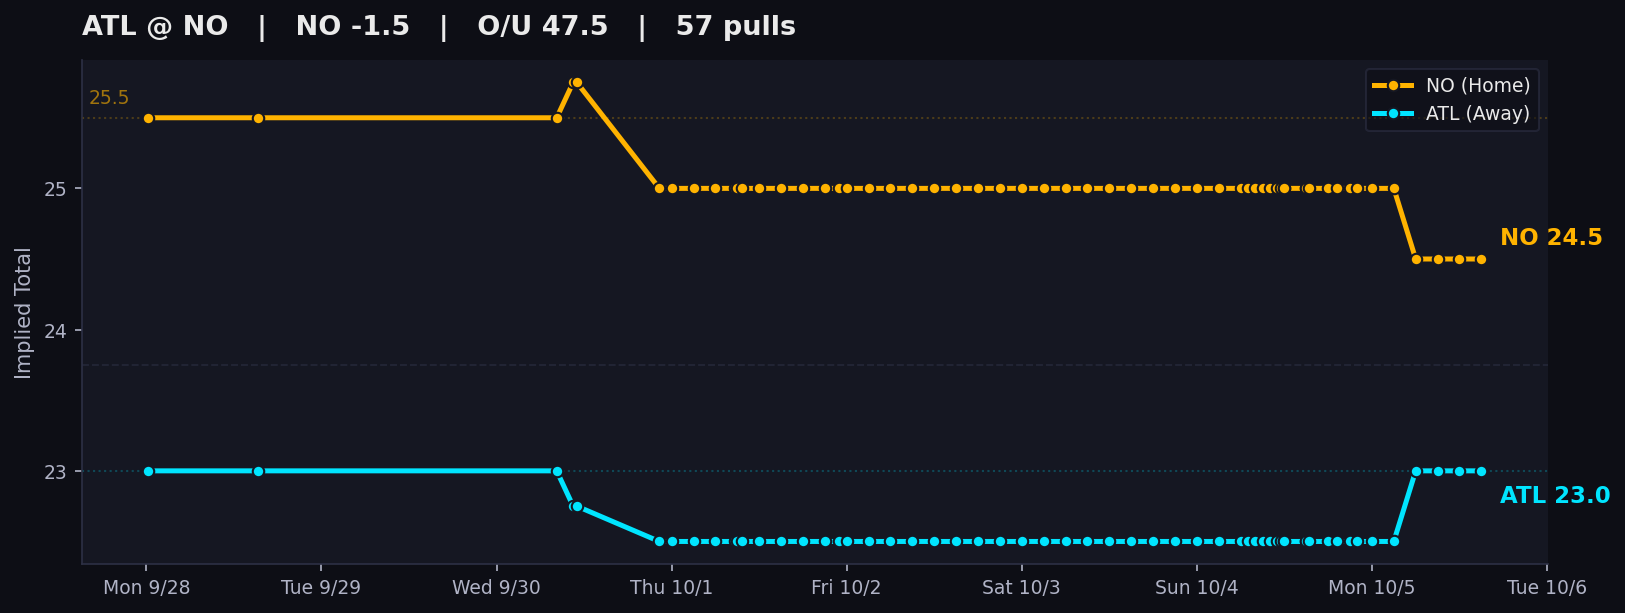
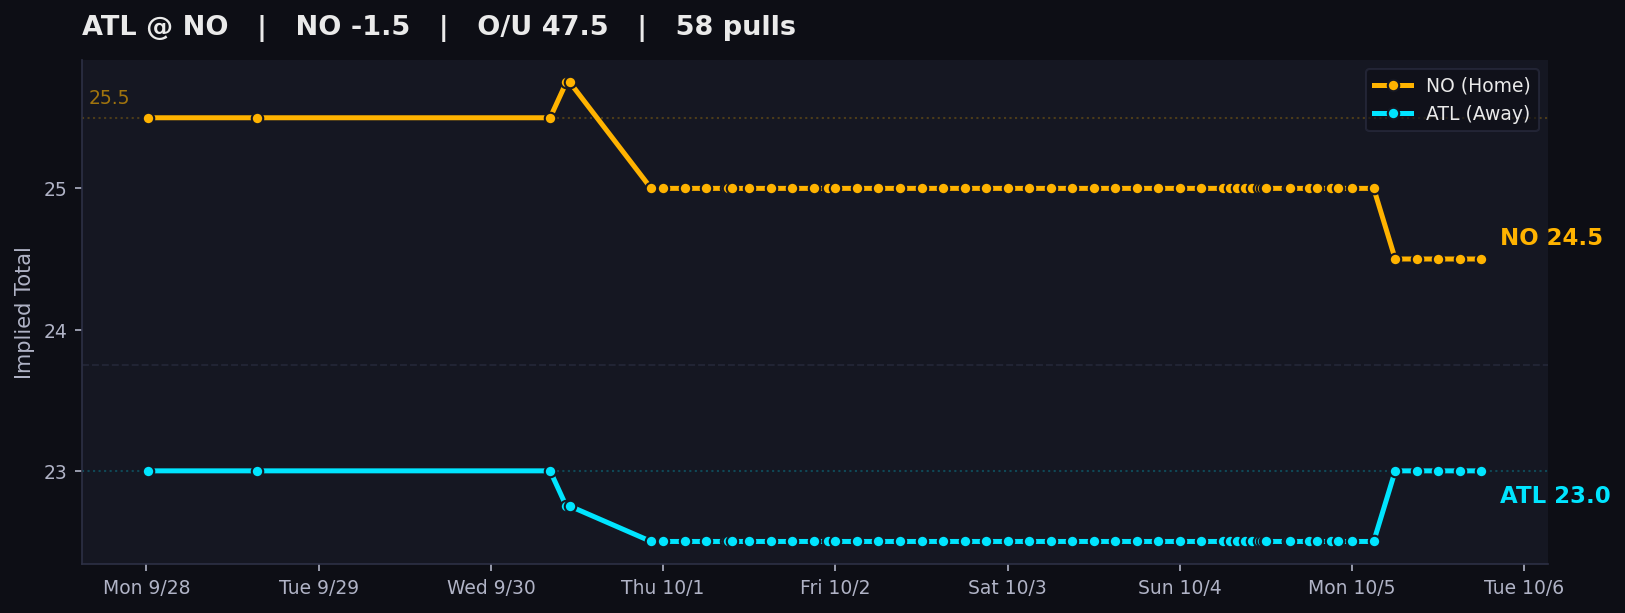
auto: local tracker sync

diff --git a/charts/index.html b/charts/index.html
@@ -311,7 +311,7 @@
     </div>
     <p class='sub'>
       DraftKings main lines &middot; Pinnacle cross-check &middot; Updated by the local Mac tracker<br>
-      Page rendered Mon Oct 05, 2026 3:00 PM CDT &middot; 762 valid chart dots &middot; 913 total pull attempts
+      Page rendered Mon Oct 05, 2026 6:00 PM CDT &middot; 763 valid chart dots &middot; 914 total pull attempts
       <span class='legend-box'>
         <span class='dot-teal'>● Away implied total</span>
         <span class='dot-amber'>● Home implied total</span>
@@ -324,9 +324,9 @@
     </details>
   </header>
 
-  <div id='feed-banner' class='alert-banner healthy' data-banner-kind='healthy' data-feed-ts='2026-10-05T20:00:00.928355+00:00' data-feed-ts-label='Mon Oct 05, 3:00 PM CDT'>
+  <div id='feed-banner' class='alert-banner healthy' data-banner-kind='healthy' data-feed-ts='2026-10-05T23:00:01.152695+00:00' data-feed-ts-label='Mon Oct 05, 6:00 PM CDT'>
             <span class='status-dot'></span>
-            <b>Feed Healthy:</b> All 1 open markets updated. 15 games have started and is showing its final verified pregame line. Board age based on oldest open market: <span id='feed-time'>Mon Oct 05, 3:00 PM CDT</span> (<span id='feed-age-dynamic'>just now</span>).
+            <b>Feed Healthy:</b> All 1 open markets updated. 15 games have started and is showing its final verified pregame line. Board age based on oldest open market: <span id='feed-time'>Mon Oct 05, 6:00 PM CDT</span> (<span id='feed-age-dynamic'>just now</span>).
         </div>
 
   <nav class='filter-bar' aria-label='Filter games by slate'>
@@ -396,7 +396,7 @@
                 <div><span>Last valid pull</span><strong>Thu 6:00 PM CT</strong></div>
                 <div><span>Chart dots</span><strong>20</strong></div>
             </div>
-                    <img class='expanded-chart' src='PIT_CLE.png?v=1791230421' alt='PIT at CLE line movement chart'>
+                    <img class='expanded-chart' src='PIT_CLE.png?v=1791241221' alt='PIT at CLE line movement chart'>
                     <p class='movement-note'>Total 38.5 → 37.5</p>
                 </div>
             </td>
@@ -437,7 +437,7 @@
                 <div><span>Last valid pull</span><strong>Sun 8:00 AM CT</strong></div>
                 <div><span>Chart dots</span><strong>46</strong></div>
             </div>
-                    <img class='expanded-chart' src='IND_WAS.png?v=1791230421' alt='IND at WAS line movement chart'>
+                    <img class='expanded-chart' src='IND_WAS.png?v=1791241221' alt='IND at WAS line movement chart'>
                     <p class='movement-note'>Spread IND -3.5 → -4.5</p>
                 </div>
             </td>
@@ -478,7 +478,7 @@
                 <div><span>Last valid pull</span><strong>Sun 12:00 PM CT</strong></div>
                 <div><span>Chart dots</span><strong>50</strong></div>
             </div>
-                    <img class='expanded-chart' src='ARI_NYG.png?v=1791230421' alt='ARI at NYG line movement chart'>
+                    <img class='expanded-chart' src='ARI_NYG.png?v=1791241221' alt='ARI at NYG line movement chart'>
                     <p class='movement-note'>Spread ARI +1.5 → -2.5; Total 43.5 → 44.5</p>
                 </div>
             </td>
@@ -513,7 +513,7 @@
                 <div><span>Last valid pull</span><strong>Sun 12:00 PM CT</strong></div>
                 <div><span>Chart dots</span><strong>48</strong></div>
             </div>
-                    <img class='expanded-chart' src='LAR_PHI.png?v=1791230421' alt='LAR at PHI line movement chart'>
+                    <img class='expanded-chart' src='LAR_PHI.png?v=1791241221' alt='LAR at PHI line movement chart'>
                     <p class='movement-note'>Spread LAR -2.5 → -3.5; Total 46.5 → 42.5</p>
                 </div>
             </td>
@@ -548,7 +548,7 @@
                 <div><span>Last valid pull</span><strong>Sun 12:00 PM CT</strong></div>
                 <div><span>Chart dots</span><strong>50</strong></div>
             </div>
-                    <img class='expanded-chart' src='GB_TB.png?v=1791230421' alt='GB at TB line movement chart'>
+                    <img class='expanded-chart' src='GB_TB.png?v=1791241221' alt='GB at TB line movement chart'>
                     <p class='movement-note'>Total 42.5 → 38.5</p>
                 </div>
             </td>
@@ -583,7 +583,7 @@
                 <div><span>Last valid pull</span><strong>Sun 12:00 PM CT</strong></div>
                 <div><span>Chart dots</span><strong>48</strong></div>
             </div>
-                    <img class='expanded-chart' src='TEN_BAL.png?v=1791230421' alt='TEN at BAL line movement chart'>
+                    <img class='expanded-chart' src='TEN_BAL.png?v=1791241221' alt='TEN at BAL line movement chart'>
                     <p class='movement-note'>Total 43.5 → 42.5</p>
                 </div>
             </td>
@@ -618,7 +618,7 @@
                 <div><span>Last valid pull</span><strong>Sun 12:00 PM CT</strong></div>
                 <div><span>Chart dots</span><strong>51</strong></div>
             </div>
-                    <img class='expanded-chart' src='NE_BUF.png?v=1791230421' alt='NE at BUF line movement chart'>
+                    <img class='expanded-chart' src='NE_BUF.png?v=1791241221' alt='NE at BUF line movement chart'>
                     <p class='movement-note'>Total 48.5 → 49.5</p>
                 </div>
             </td>
@@ -653,7 +653,7 @@
                 <div><span>Last valid pull</span><strong>Sun 12:00 PM CT</strong></div>
                 <div><span>Chart dots</span><strong>50</strong></div>
             </div>
-                    <img class='expanded-chart' src='JAX_CIN.png?v=1791230421' alt='JAX at CIN line movement chart'>
+                    <img class='expanded-chart' src='JAX_CIN.png?v=1791241221' alt='JAX at CIN line movement chart'>
                     <p class='movement-note'>Total 50.5 → 51.5</p>
                 </div>
             </td>
@@ -688,7 +688,7 @@
                 <div><span>Last valid pull</span><strong>Sun 12:00 PM CT</strong></div>
                 <div><span>Chart dots</span><strong>50</strong></div>
             </div>
-                    <img class='expanded-chart' src='DAL_HOU.png?v=1791230421' alt='DAL at HOU line movement chart'>
+                    <img class='expanded-chart' src='DAL_HOU.png?v=1791241221' alt='DAL at HOU line movement chart'>
                     <p class='movement-note'>Spread HOU -2.5 → -3.0; Total 47.5 → 48.5</p>
                 </div>
             </td>
@@ -723,7 +723,7 @@
                 <div><span>Last valid pull</span><strong>Sun 12:00 PM CT</strong></div>
                 <div><span>Chart dots</span><strong>50</strong></div>
             </div>
-                    <img class='expanded-chart' src='NYJ_CHI.png?v=1791230421' alt='NYJ at CHI line movement chart'>
+                    <img class='expanded-chart' src='NYJ_CHI.png?v=1791241221' alt='NYJ at CHI line movement chart'>
                     <p class='movement-note'>Spread CHI -3.0 → -3.5; Total 42.5 → 43.5</p>
                 </div>
             </td>
@@ -764,7 +764,7 @@
                 <div><span>Last valid pull</span><strong>Sun 3:00 PM CT</strong></div>
                 <div><span>Chart dots</span><strong>49</strong></div>
             </div>
-                    <img class='expanded-chart' src='MIA_MIN.png?v=1791230421' alt='MIA at MIN line movement chart'>
+                    <img class='expanded-chart' src='MIA_MIN.png?v=1791241221' alt='MIA at MIN line movement chart'>
                     <p class='movement-note'>Total 39.5 → 38.5</p>
                 </div>
             </td>
@@ -799,7 +799,7 @@
                 <div><span>Last valid pull</span><strong>Sun 3:20 PM CT</strong></div>
                 <div><span>Chart dots</span><strong>50</strong></div>
             </div>
-                    <img class='expanded-chart' src='DEN_SF.png?v=1791230421' alt='DEN at SF line movement chart'>
+                    <img class='expanded-chart' src='DEN_SF.png?v=1791241221' alt='DEN at SF line movement chart'>
                     <p class='movement-note'>Total 46.5 → 47.5</p>
                 </div>
             </td>
@@ -834,7 +834,7 @@
                 <div><span>Last valid pull</span><strong>Sun 3:20 PM CT</strong></div>
                 <div><span>Chart dots</span><strong>47</strong></div>
             </div>
-                    <img class='expanded-chart' src='KC_LVR.png?v=1791230421' alt='KC at LVR line movement chart'>
+                    <img class='expanded-chart' src='KC_LVR.png?v=1791241221' alt='KC at LVR line movement chart'>
                     <p class='movement-note'>Spread KC -5.5 → -4.5</p>
                 </div>
             </td>
@@ -869,7 +869,7 @@
                 <div><span>Last valid pull</span><strong>Sun 3:20 PM CT</strong></div>
                 <div><span>Chart dots</span><strong>47</strong></div>
             </div>
-                    <img class='expanded-chart' src='LAC_SEA.png?v=1791230421' alt='LAC at SEA line movement chart'>
+                    <img class='expanded-chart' src='LAC_SEA.png?v=1791241221' alt='LAC at SEA line movement chart'>
                     <p class='movement-note'>Spread SEA -6.5 → -7.0; Total 43.5 → 42.5</p>
                 </div>
             </td>
@@ -910,7 +910,7 @@
                 <div><span>Last valid pull</span><strong>Sun 7:10 PM CT</strong></div>
                 <div><span>Chart dots</span><strong>49</strong></div>
             </div>
-                    <img class='expanded-chart' src='DET_CAR.png?v=1791230421' alt='DET at CAR line movement chart'>
+                    <img class='expanded-chart' src='DET_CAR.png?v=1791241221' alt='DET at CAR line movement chart'>
                     <p class='movement-note'>Spread DET -3.5 → -4.5; Total 50.5 → 51.5</p>
                 </div>
             </td>
@@ -931,8 +931,8 @@
             <td class='it-away'>ATL 23.0</td>
             <td class='it-home'>NO 24.5</td>
             <td class='reason' title='Spread NO -2.5 → -1.5; Total 48.5 → 47.5'>Spread NO -2.5 → -1.5; Total 48.5 → 47.5</td>
-            <td style='text-align:center;'><span class='pill-fresh'>3:00 PM CT</span></td>
-            <td class='snaps'>57</td>
+            <td style='text-align:center;'><span class='pill-fresh'>6:00 PM CT</span></td>
+            <td class='snaps'>58</td>
         </tr>
         <tr id='desktop-panel-ATL_NO' class='chart-detail-row' data-slate='MNF' data-game-panel='ATL_NO' hidden>
             <td colspan='12'>
@@ -948,10 +948,10 @@
                 <div><span>Current total</span><strong>47.5</strong></div>
                 <div><span>Away implied</span><strong class='it-away'>ATL 23.0</strong></div>
                 <div><span>Home implied</span><strong class='it-home'>NO 24.5</strong></div>
-                <div><span>Last valid pull</span><strong>3:00 PM CT</strong></div>
-                <div><span>Chart dots</span><strong>57</strong></div>
+                <div><span>Last valid pull</span><strong>6:00 PM CT</strong></div>
+                <div><span>Chart dots</span><strong>58</strong></div>
             </div>
-                    <img class='expanded-chart' src='ATL_NO.png?v=1791230421' alt='ATL at NO line movement chart'>
+                    <img class='expanded-chart' src='ATL_NO.png?v=1791241221' alt='ATL at NO line movement chart'>
                     <p class='movement-note'>Spread NO -2.5 → -1.5; Total 48.5 → 47.5</p>
                 </div>
             </td>
@@ -986,7 +986,7 @@
                 <div><span>Last valid pull</span><strong>Thu 6:00 PM CT</strong></div>
                 <div><span>Chart dots</span><strong>20</strong></div>
             </div>
-                <img class='expanded-chart' src='PIT_CLE.png?v=1791230421' alt='PIT at CLE line movement chart'>
+                <img class='expanded-chart' src='PIT_CLE.png?v=1791241221' alt='PIT at CLE line movement chart'>
                 <p class='pull-note'><span class='pull-dot'></span> Every dot is a valid completed pull · 20 chart dots</p>
             </div>
         </article><article class='mobile-game-card closed-game' data-slate='OTHER_PRIMETIME' data-game='IND_WAS'>
@@ -1013,7 +1013,7 @@
                 <div><span>Last valid pull</span><strong>Sun 8:00 AM CT</strong></div>
                 <div><span>Chart dots</span><strong>46</strong></div>
             </div>
-                <img class='expanded-chart' src='IND_WAS.png?v=1791230421' alt='IND at WAS line movement chart'>
+                <img class='expanded-chart' src='IND_WAS.png?v=1791241221' alt='IND at WAS line movement chart'>
                 <p class='pull-note'><span class='pull-dot'></span> Every dot is a valid completed pull · 46 chart dots</p>
             </div>
         </article><article class='mobile-game-card closed-game' data-slate='SUN_EARLY' data-game='ARI_NYG'>
@@ -1040,7 +1040,7 @@
                 <div><span>Last valid pull</span><strong>Sun 12:00 PM CT</strong></div>
                 <div><span>Chart dots</span><strong>50</strong></div>
             </div>
-                <img class='expanded-chart' src='ARI_NYG.png?v=1791230421' alt='ARI at NYG line movement chart'>
+                <img class='expanded-chart' src='ARI_NYG.png?v=1791241221' alt='ARI at NYG line movement chart'>
                 <p class='pull-note'><span class='pull-dot'></span> Every dot is a valid completed pull · 50 chart dots</p>
             </div>
         </article><article class='mobile-game-card closed-game' data-slate='SUN_EARLY' data-game='LAR_PHI'>
@@ -1067,7 +1067,7 @@
                 <div><span>Last valid pull</span><strong>Sun 12:00 PM CT</strong></div>
                 <div><span>Chart dots</span><strong>48</strong></div>
             </div>
-                <img class='expanded-chart' src='LAR_PHI.png?v=1791230421' alt='LAR at PHI line movement chart'>
+                <img class='expanded-chart' src='LAR_PHI.png?v=1791241221' alt='LAR at PHI line movement chart'>
                 <p class='pull-note'><span class='pull-dot'></span> Every dot is a valid completed pull · 48 chart dots</p>
             </div>
         </article><article class='mobile-game-card closed-game' data-slate='SUN_EARLY' data-game='GB_TB'>
@@ -1094,7 +1094,7 @@
                 <div><span>Last valid pull</span><strong>Sun 12:00 PM CT</strong></div>
                 <div><span>Chart dots</span><strong>50</strong></div>
             </div>
-                <img class='expanded-chart' src='GB_TB.png?v=1791230421' alt='GB at TB line movement chart'>
+                <img class='expanded-chart' src='GB_TB.png?v=1791241221' alt='GB at TB line movement chart'>
                 <p class='pull-note'><span class='pull-dot'></span> Every dot is a valid completed pull · 50 chart dots</p>
             </div>
         </article><article class='mobile-game-card closed-game' data-slate='SUN_EARLY' data-game='TEN_BAL'>
@@ -1121,7 +1121,7 @@
                 <div><span>Last valid pull</span><strong>Sun 12:00 PM CT</strong></div>
                 <div><span>Chart dots</span><strong>48</strong></div>
             </div>
-                <img class='expanded-chart' src='TEN_BAL.png?v=1791230421' alt='TEN at BAL line movement chart'>
+                <img class='expanded-chart' src='TEN_BAL.png?v=1791241221' alt='TEN at BAL line movement chart'>
                 <p class='pull-note'><span class='pull-dot'></span> Every dot is a valid completed pull · 48 chart dots</p>
             </div>
         </article><article class='mobile-game-card closed-game' data-slate='SUN_EARLY' data-game='NE_BUF'>
@@ -1148,7 +1148,7 @@
                 <div><span>Last valid pull</span><strong>Sun 12:00 PM CT</strong></div>
                 <div><span>Chart dots</span><strong>51</strong></div>
             </div>
-                <img class='expanded-chart' src='NE_BUF.png?v=1791230421' alt='NE at BUF line movement chart'>
+                <img class='expanded-chart' src='NE_BUF.png?v=1791241221' alt='NE at BUF line movement chart'>
                 <p class='pull-note'><span class='pull-dot'></span> Every dot is a valid completed pull · 51 chart dots</p>
             </div>
         </article><article class='mobile-game-card closed-game' data-slate='SUN_EARLY' data-game='JAX_CIN'>
@@ -1175,7 +1175,7 @@
                 <div><span>Last valid pull</span><strong>Sun 12:00 PM CT</strong></div>
                 <div><span>Chart dots</span><strong>50</strong></div>
             </div>
-                <img class='expanded-chart' src='JAX_CIN.png?v=1791230421' alt='JAX at CIN line movement chart'>
+                <img class='expanded-chart' src='JAX_CIN.png?v=1791241221' alt='JAX at CIN line movement chart'>
                 <p class='pull-note'><span class='pull-dot'></span> Every dot is a valid completed pull · 50 chart dots</p>
             </div>
         </article><article class='mobile-game-card closed-game' data-slate='SUN_EARLY' data-game='DAL_HOU'>
@@ -1202,7 +1202,7 @@
                 <div><span>Last valid pull</span><strong>Sun 12:00 PM CT</strong></div>
                 <div><span>Chart dots</span><strong>50</strong></div>
             </div>
-                <img class='expanded-chart' src='DAL_HOU.png?v=1791230421' alt='DAL at HOU line movement chart'>
+                <img class='expanded-chart' src='DAL_HOU.png?v=1791241221' alt='DAL at HOU line movement chart'>
                 <p class='pull-note'><span class='pull-dot'></span> Every dot is a valid completed pull · 50 chart dots</p>
             </div>
         </article><article class='mobile-game-card closed-game' data-slate='SUN_EARLY' data-game='NYJ_CHI'>
@@ -1229,7 +1229,7 @@
                 <div><span>Last valid pull</span><strong>Sun 12:00 PM CT</strong></div>
                 <div><span>Chart dots</span><strong>50</strong></div>
             </div>
-                <img class='expanded-chart' src='NYJ_CHI.png?v=1791230421' alt='NYJ at CHI line movement chart'>
+                <img class='expanded-chart' src='NYJ_CHI.png?v=1791241221' alt='NYJ at CHI line movement chart'>
                 <p class='pull-note'><span class='pull-dot'></span> Every dot is a valid completed pull · 50 chart dots</p>
             </div>
         </article><article class='mobile-game-card closed-game' data-slate='SUN_LATE' data-game='MIA_MIN'>
@@ -1256,7 +1256,7 @@
                 <div><span>Last valid pull</span><strong>Sun 3:00 PM CT</strong></div>
                 <div><span>Chart dots</span><strong>49</strong></div>
             </div>
-                <img class='expanded-chart' src='MIA_MIN.png?v=1791230421' alt='MIA at MIN line movement chart'>
+                <img class='expanded-chart' src='MIA_MIN.png?v=1791241221' alt='MIA at MIN line movement chart'>
                 <p class='pull-note'><span class='pull-dot'></span> Every dot is a valid completed pull · 49 chart dots</p>
             </div>
         </article><article class='mobile-game-card closed-game' data-slate='SUN_LATE' data-game='DEN_SF'>
@@ -1283,7 +1283,7 @@
                 <div><span>Last valid pull</span><strong>Sun 3:20 PM CT</strong></div>
                 <div><span>Chart dots</span><strong>50</strong></div>
             </div>
-                <img class='expanded-chart' src='DEN_SF.png?v=1791230421' alt='DEN at SF line movement chart'>
+                <img class='expanded-chart' src='DEN_SF.png?v=1791241221' alt='DEN at SF line movement chart'>
                 <p class='pull-note'><span class='pull-dot'></span> Every dot is a valid completed pull · 50 chart dots</p>
             </div>
         </article><article class='mobile-game-card closed-game' data-slate='SUN_LATE' data-game='KC_LVR'>
@@ -1310,7 +1310,7 @@
                 <div><span>Last valid pull</span><strong>Sun 3:20 PM CT</strong></div>
                 <div><span>Chart dots</span><strong>47</strong></div>
             </div>
-                <img class='expanded-chart' src='KC_LVR.png?v=1791230421' alt='KC at LVR line movement chart'>
+                <img class='expanded-chart' src='KC_LVR.png?v=1791241221' alt='KC at LVR line movement chart'>
                 <p class='pull-note'><span class='pull-dot'></span> Every dot is a valid completed pull · 47 chart dots</p>
             </div>
         </article><article class='mobile-game-card closed-game' data-slate='SUN_LATE' data-game='LAC_SEA'>
@@ -1337,7 +1337,7 @@
                 <div><span>Last valid pull</span><strong>Sun 3:20 PM CT</strong></div>
                 <div><span>Chart dots</span><strong>47</strong></div>
             </div>
-                <img class='expanded-chart' src='LAC_SEA.png?v=1791230421' alt='LAC at SEA line movement chart'>
+                <img class='expanded-chart' src='LAC_SEA.png?v=1791241221' alt='LAC at SEA line movement chart'>
                 <p class='pull-note'><span class='pull-dot'></span> Every dot is a valid completed pull · 47 chart dots</p>
             </div>
         </article><article class='mobile-game-card closed-game' data-slate='SNF' data-game='DET_CAR'>
@@ -1364,7 +1364,7 @@
                 <div><span>Last valid pull</span><strong>Sun 7:10 PM CT</strong></div>
                 <div><span>Chart dots</span><strong>49</strong></div>
             </div>
-                <img class='expanded-chart' src='DET_CAR.png?v=1791230421' alt='DET at CAR line movement chart'>
+                <img class='expanded-chart' src='DET_CAR.png?v=1791241221' alt='DET at CAR line movement chart'>
                 <p class='pull-note'><span class='pull-dot'></span> Every dot is a valid completed pull · 49 chart dots</p>
             </div>
         </article><article class='mobile-game-card ' data-slate='MNF' data-game='ATL_NO'>
@@ -1388,11 +1388,11 @@
                 <div><span>Current total</span><strong>47.5</strong></div>
                 <div><span>Away implied</span><strong class='it-away'>ATL 23.0</strong></div>
                 <div><span>Home implied</span><strong class='it-home'>NO 24.5</strong></div>
-                <div><span>Last valid pull</span><strong>3:00 PM CT</strong></div>
-                <div><span>Chart dots</span><strong>57</strong></div>
+                <div><span>Last valid pull</span><strong>6:00 PM CT</strong></div>
+                <div><span>Chart dots</span><strong>58</strong></div>
             </div>
-                <img class='expanded-chart' src='ATL_NO.png?v=1791230421' alt='ATL at NO line movement chart'>
-                <p class='pull-note'><span class='pull-dot'></span> Every dot is a valid completed pull · 57 chart dots</p>
+                <img class='expanded-chart' src='ATL_NO.png?v=1791241221' alt='ATL at NO line movement chart'>
+                <p class='pull-note'><span class='pull-dot'></span> Every dot is a valid completed pull · 58 chart dots</p>
             </div>
         </article>
   </section>
